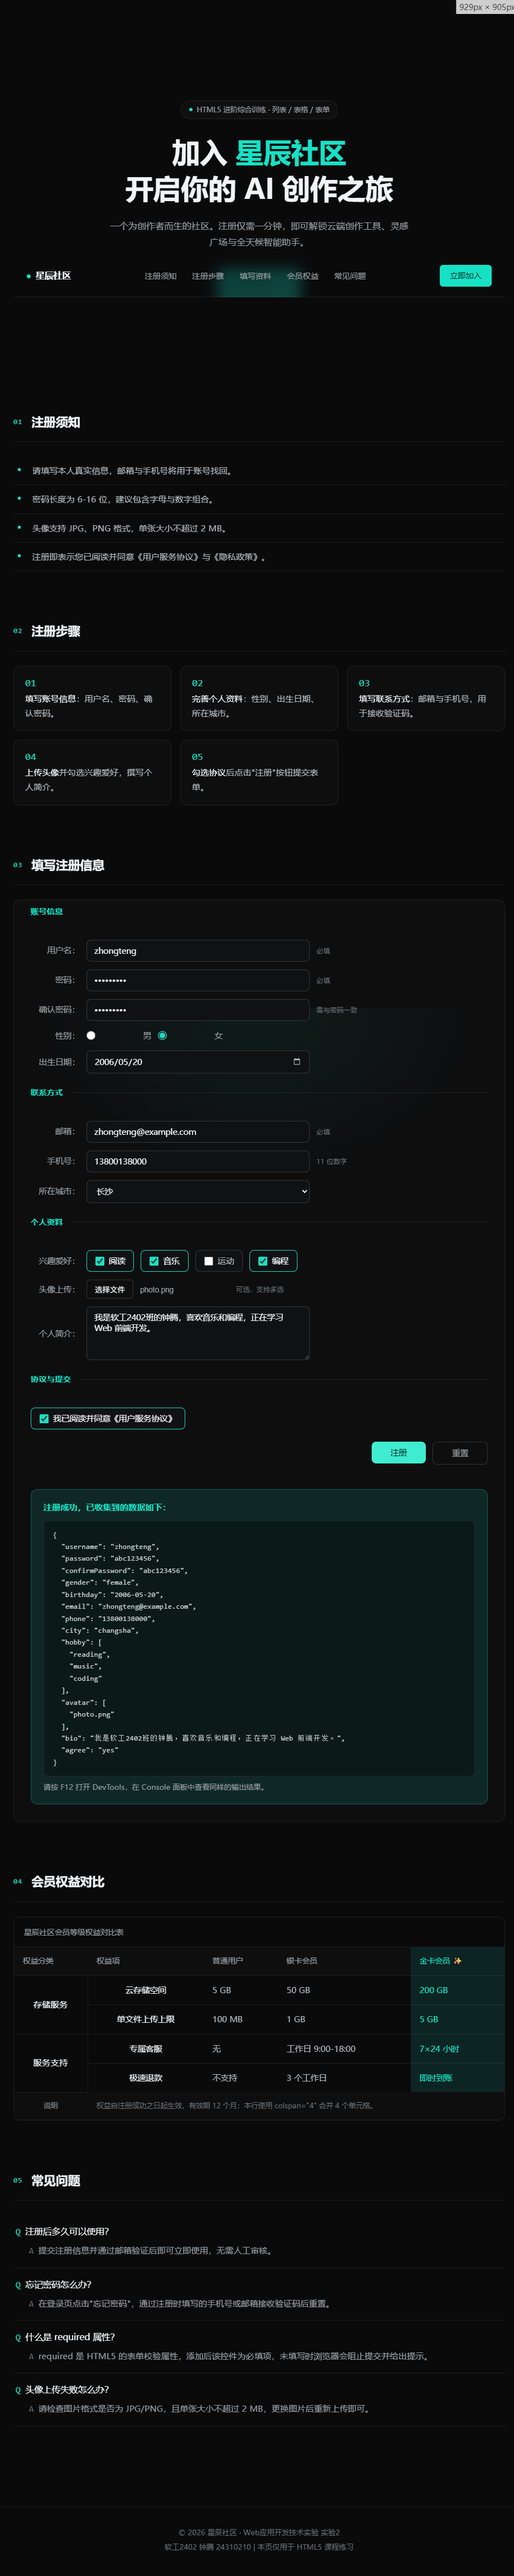
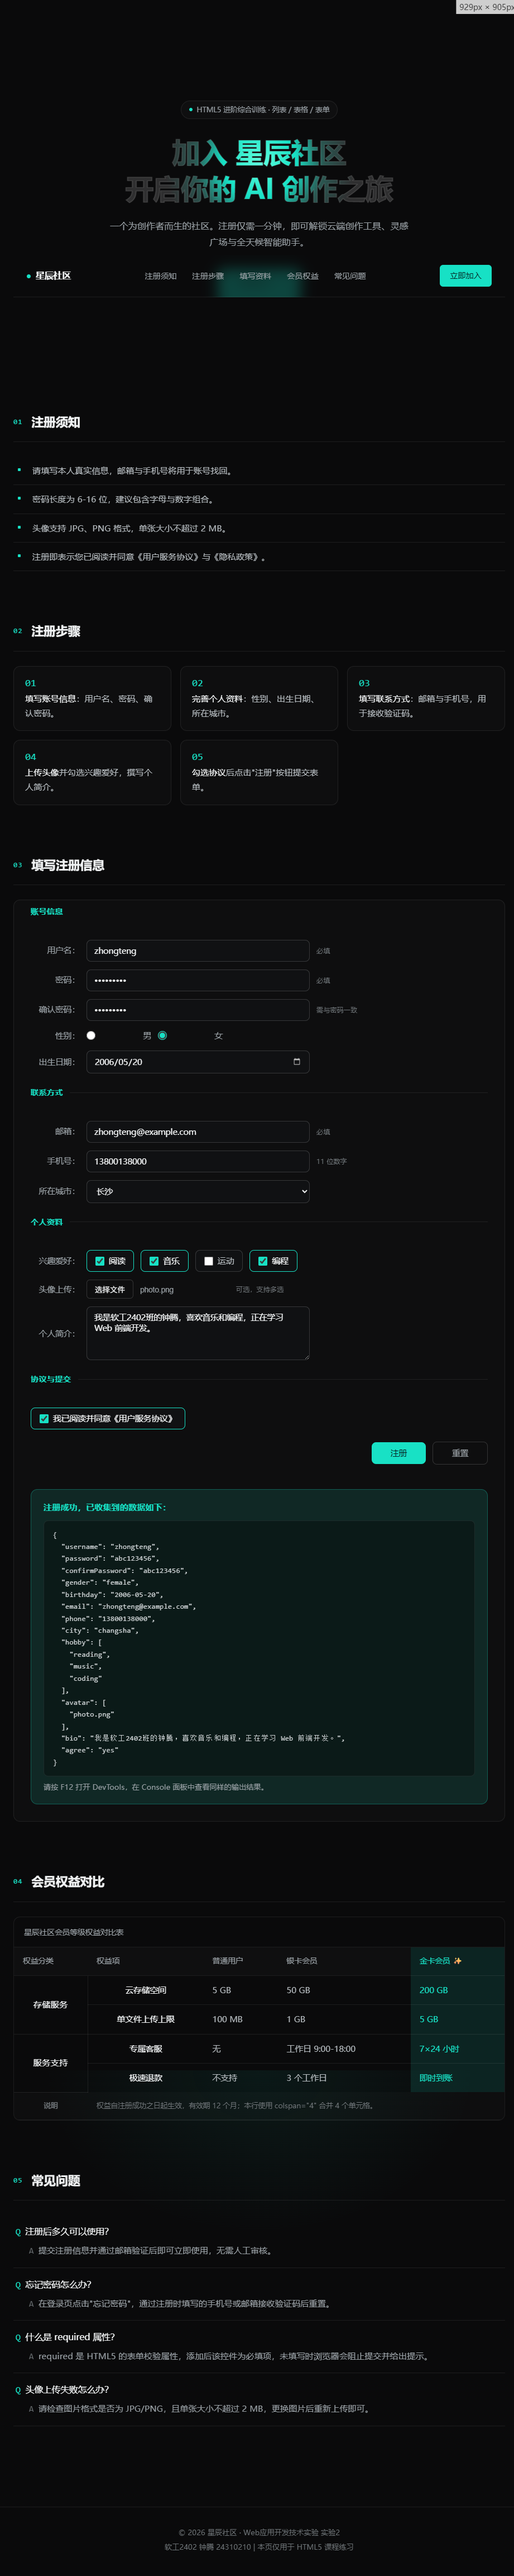
实验2新增Hero标题聚光灯动效：青色光斑跟随鼠标移动（background-clip:text+径向遮罩+rAF惯性插值），触屏设备优雅降级

Changed region(s): [[0.456, 0.0312, 0.76, 0.0937], [0.2432, 0.0312, 0.456, 0.0937], [0.7296, 0.5623, 0.8208, 0.5935]]

diff --git a/实验2-注册表单/index.html b/实验2-注册表单/index.html
@@ -24,7 +24,10 @@
 
     <div class="hero-body">
       <p class="hero-badge">HTML5 进阶综合训练 · 列表 / 表格 / 表单</p>
-      <h1>加入 <span class="grad">星辰社区</span><br>开启你的 AI 创作之旅</h1>
+      <div class="hero-title" id="hero-title">
+        <h1 class="base">加入 <span class="grad">星辰社区</span><br>开启你的 AI 创作之旅</h1>
+        <h1 class="spot" aria-hidden="true">加入 <span>星辰社区</span><br>开启你的 AI 创作之旅</h1>
+      </div>
       <p class="hero-sub">一个为创作者而生的社区。注册仅需一分钟，即可解锁云端创作工具、灵感广场与全天候智能助手。</p>
       <a class="hero-btn" href="#register">免费注册 →</a>
     </div>
@@ -310,6 +313,43 @@
       sec.classList.add("reveal");
       observer.observe(sec);
     });
+
+    // Hero 标题"聚光灯"效果：鼠标位置决定青色高亮的中心，带惯性跟随
+    // 原理：底层文字为暗色，上层同一份文字用 background-clip:text 填充青色，
+    // 并用径向渐变遮罩，遮罩圆心即鼠标位置；rAF 插值让跟随有阻尼感
+    (function () {
+      if (window.matchMedia("(hover: none)").matches) return; // 触屏设备不启用
+      var wrap = document.getElementById("hero-title");
+      if (!wrap) return;
+      var target = { x: 50, y: 40 };   // 目标位置（百分比）
+      var cur = { x: 50, y: 40 };      // 当前位置（缓动用）
+      var raf = null;
+
+      function tick() {
+        cur.x += (target.x - cur.x) * 0.13;
+        cur.y += (target.y - cur.y) * 0.13;
+        wrap.style.setProperty("--mx", cur.x.toFixed(2) + "%");
+        wrap.style.setProperty("--my", cur.y.toFixed(2) + "%");
+        // 距离足够近时停止动画，节省性能
+        if (Math.abs(target.x - cur.x) > 0.05 || Math.abs(target.y - cur.y) > 0.05) {
+          raf = requestAnimationFrame(tick);
+        } else {
+          raf = null;
+        }
+      }
+      function kick() { if (!raf) raf = requestAnimationFrame(tick); }
+
+      var hero = document.querySelector("header.hero");
+      hero.addEventListener("mousemove", function (e) {
+        var r = wrap.getBoundingClientRect();
+        target.x = ((e.clientX - r.left) / r.width) * 100;
+        target.y = ((e.clientY - r.top) / r.height) * 100;
+        kick();
+      });
+      hero.addEventListener("mouseleave", function () {
+        target.x = 50; target.y = 40; kick();
+      });
+    })();
   </script>
 </body>
 </html>

diff --git a/实验2-注册表单/style.css b/实验2-注册表单/style.css
@@ -180,6 +180,18 @@ header.hero {
   background: var(--cyan);
 }
 
+/* Hero 标题：双层文字"聚光灯"
+   底层(.base)：暗色文字，平时呈现
+   上层(.spot)：同一份文字，青色填充，用径向渐变遮罩只露出鼠标附近的区域
+   遮罩圆心 --mx/--my 由 JS 随鼠标更新（带惯性插值） */
+.hero-title {
+  position: relative;
+  max-width: 780px;
+  margin: 0 auto;
+  --mx: 50%;
+  --my: 40%;
+}
+
 header.hero h1 {
   font-size: clamp(32px, 5.4vw, 52px);
   font-weight: 650;
@@ -187,7 +199,49 @@ header.hero h1 {
   letter-spacing: -0.5px;
 }
 
-/* 青色强调文字 */
+/* 底层：暗灰文字 */
+.hero-title h1.base {
+  color: rgba(242, 244, 245, 0.16);
+  -webkit-text-stroke: 1px rgba(255, 255, 255, 0.12);
+}
+
+.hero-title h1.base .grad {
+  color: inherit;
+}
+
+/* 上层：青色聚光灯 */
+.hero-title h1.spot {
+  position: absolute;
+  inset: 0;
+  color: transparent;
+  background: radial-gradient(
+    170px circle at var(--mx) var(--my),
+    #5fffdd 0%,
+    var(--cyan) 38%,
+    rgba(23, 225, 197, 0.22) 68%,
+    transparent 100%
+  );
+  -webkit-background-clip: text;
+  background-clip: text;
+  pointer-events: none;
+  user-select: none;
+}
+
+/* 触屏 / 不支持 hover 的设备：退回普通样式 */
+@media (hover: none) {
+  .hero-title h1.base {
+    color: var(--text);
+    -webkit-text-stroke: 0;
+  }
+  .hero-title h1.base .grad {
+    color: var(--cyan);
+  }
+  .hero-title h1.spot {
+    display: none;
+  }
+}
+
+/* 渐变强调文字（非 hero 区域兜底用） */
 .grad {
   color: var(--cyan);
 }
